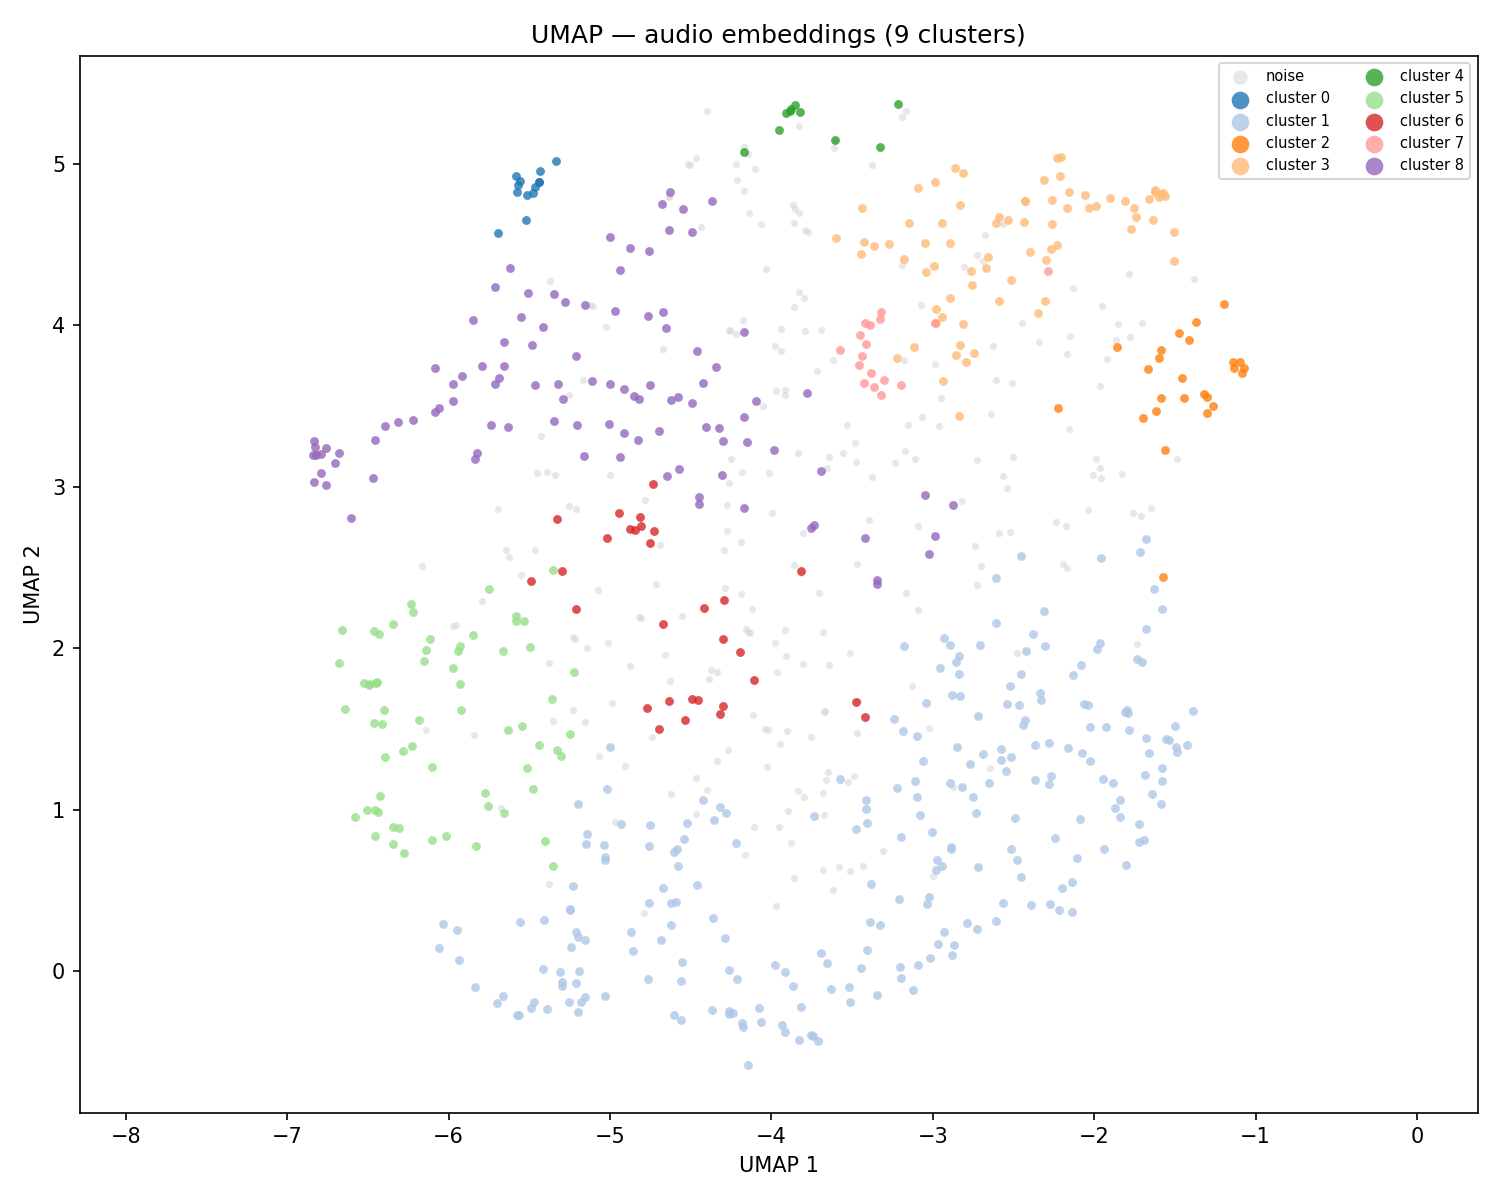
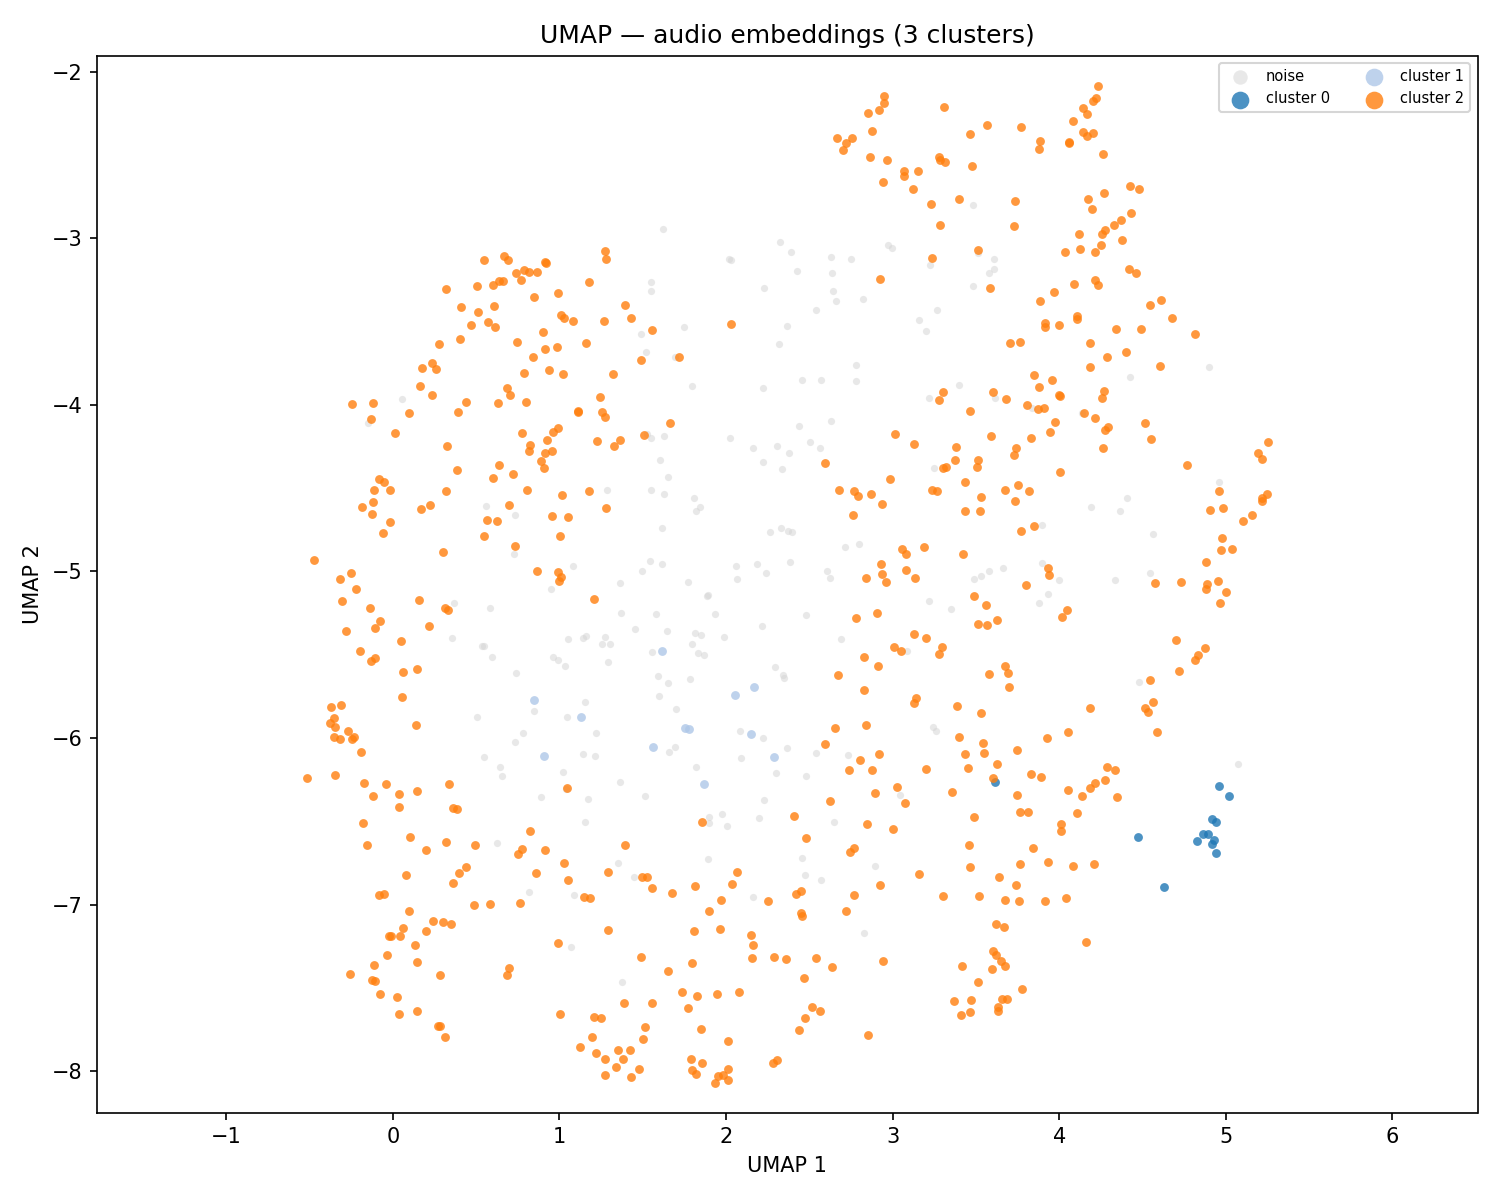
upd: clusters stats via db

diff --git a/generators/cluster_results_best.py b/generators/cluster_results_best.py
@@ -1,0 +1,163 @@
+#!/usr/bin/env python
+"""Show top-N cluster runs per embedding case, aligned with validate_clustering.
+
+Default sort matches main.py: plateau survivors first (drop <= threshold), then by
+DBCv descending — so rank 1 is the same run cluster_users() uses. Use --sort dbcv
+for a raw DBCV-only leaderboard (those rows may all be ok=N while a lower-DBCv run wins).
+"""
+from __future__ import annotations
+
+import argparse
+import os
+import sys
+
+sys.path.insert(0, os.path.dirname(os.path.dirname(__file__)))
+
+from sqlalchemy.orm import Session
+
+from modules.database import engine, ClusterRun
+
+
+CASES = ["video", "sandwich", "audio"]
+
+_HEADER = (
+    f"{'rk':>2}  {'id':>5}  {'dbcv':>7}  {'plat':>7}  {'drop':>6}  {'ok':>2}  {'sil':>7}"
+    f"  {'k':>3}  {'noise%':>6}"
+    f"  {'nc':>3}  {'nn':>3}  {'md':>5}  {'u1m':<8}"
+    f"  {'u2n':>3}  {'u2d':>5}  {'u2m':<8}"
+    f"  {'mcs':>4}  {'ms':>4}  {'sel':<4}  {'hdbm':<8}  {'*':>1}"
+)
+_SEP = "-" * len(_HEADER)
+
+
+def _fmt(val: float | None) -> str:
+    return f"{val:.4f}" if val is not None else "    —"
+
+
+def _fmt_ms(val: int | None) -> str:
+    if val is None:
+        return "   —"
+    return f"{val:>4}"
+
+
+def _pick_best(rows: list[ClusterRun], threshold: float) -> ClusterRun | None:
+    """Same survivor rule as modules.cluster_validation._select_best."""
+    if not rows:
+        return None
+    survivors = [r for r in rows if (r.dbcv - r.param_plateau_score) <= threshold]
+    if not survivors:
+        survivors = rows
+    return max(survivors, key=lambda r: r.dbcv)
+
+
+def _passes_plateau(r: ClusterRun, threshold: float) -> bool:
+    return (r.dbcv - r.param_plateau_score) <= threshold
+
+
+def _sort_rows(
+    rows: list[ClusterRun],
+    threshold: float,
+    sort: str,
+) -> list[ClusterRun]:
+    if sort == "dbcv":
+        rows.sort(key=lambda r: r.dbcv, reverse=True)
+        return rows
+    # validation: survivors first (same ordering as _select_best’s pool), then rest
+    rows.sort(
+        key=lambda r: (
+            0 if _passes_plateau(r, threshold) else 1,
+            -r.dbcv,
+        ),
+    )
+    return rows
+
+
+def show(
+    case: str,
+    num: int = 10,
+    *,
+    sort: str = "validation",
+) -> None:
+    threshold = float(os.environ.get("VALIDATION_PLATEAU_DROP_THRESHOLD", "0.05"))
+
+    with Session(engine) as session:
+        rows = (
+            session.query(ClusterRun)
+            .filter(
+                ClusterRun.embedding_case == case,
+                ClusterRun.in_current_grid == 1,
+                ClusterRun.disqualified == 0,
+                ClusterRun.dbcv.isnot(None),
+                ClusterRun.param_plateau_score.isnot(None),
+            )
+            .all()
+        )
+
+    best = _pick_best(rows, threshold)
+    _sort_rows(rows, threshold, sort)
+    rows = rows[:num]
+
+    print(f"\nTop {num} cluster runs — case={case} (current grid)\n")
+    print(f"plateau drop threshold (VALIDATION_PLATEAU_DROP_THRESHOLD) = {threshold:g}")
+    if best is not None:
+        print(
+            f"validation pick: id={best.id} dbcv={best.dbcv:.4f} "
+            f"plat={best.param_plateau_score:.4f} "
+            f"drop={best.dbcv - best.param_plateau_score:.4f}"
+        )
+    print()
+    print(_HEADER)
+    print(_SEP)
+    for rank, r in enumerate(rows, 1):
+        drop = r.dbcv - r.param_plateau_score
+        ok = "Y" if drop <= threshold else "N"
+        star = "*" if best is not None and r.id == best.id else " "
+        print(
+            f"{rank:>2}  {r.id:>5}  {_fmt(r.dbcv):>7}  {_fmt(r.param_plateau_score):>7}"
+            f"  {drop:>6.4f}  {ok:>2}  {_fmt(r.silhouette):>7}"
+            f"  {r.n_clusters:>3}  {r.noise_ratio:>6.1%}"
+            f"  {r.umap_n_components:>3}  {r.umap_n_neighbors:>3}  {r.umap_min_dist:>5.3f}"
+            f"  {r.umap_metric:<8}"
+            f"  {r.umap2d_n_neighbors:>3}  {r.umap2d_min_dist:>5.3f}  {r.umap2d_metric:<8}"
+            f"  {r.hdbscan_min_cluster_size:>4}  {_fmt_ms(r.hdbscan_min_samples)}"
+            f"  {r.hdbscan_cluster_selection_method:<4}  {r.hdbscan_metric:<8}  {star:>1}"
+        )
+    if not rows:
+        print("  (no eligible runs — need cluster_search + validate_clustering)")
+    print()
+
+
+def main() -> None:
+    parser = argparse.ArgumentParser(
+        description=(
+            "Show top cluster runs per embedding case from the DB, "
+            "matching validate_clustering filters and selection."
+        )
+    )
+    parser.add_argument(
+        "--case",
+        required=True,
+        choices=CASES,
+        help="Embedding case to inspect (video, sandwich, audio)",
+    )
+    parser.add_argument(
+        "--num",
+        type=int,
+        default=10,
+        help="Number of top runs to show (default: 10)",
+    )
+    parser.add_argument(
+        "--sort",
+        choices=("validation", "dbcv"),
+        default="validation",
+        help=(
+            "validation: plateau-stable runs first, then by DBCV (rank 1 = pipeline run). "
+            "dbcv: pure DBCV descending (may disagree with cluster_users)."
+        ),
+    )
+    args = parser.parse_args()
+    show(args.case, args.num, sort=args.sort)
+
+
+if __name__ == "__main__":
+    main()

diff --git a/modules/database.py b/modules/database.py
@@ -219,7 +219,7 @@ class ClusterRun(Base):
     silhouette = Column(Float, nullable=True)
     param_plateau_score = Column(Float, nullable=True)
     in_current_grid = Column(Integer, nullable=True)   # 1=current, 0=stale
-    dataset_fingerprint = Column(String, nullable=True) # SHA-256 of sorted user PKs
+    dataset_hash = Column(String, nullable=True) # SHA-256 of sorted user PKs
     validation_config_hash = Column(String, nullable=True)
     created_at = Column(DateTime(timezone=True), server_default=func.now(), nullable=False)
 
@@ -261,13 +261,22 @@ def _migrate_cluster_runs_table() -> None:
         "silhouette": "REAL",
         "param_plateau_score": "REAL",
         "in_current_grid": "INTEGER",
-        "dataset_fingerprint": "TEXT",
+        "dataset_hash": "TEXT",
         "validation_config_hash": "TEXT",
     }
     for col, col_type in new_cols.items():
         if col not in columns:
             with engine.begin() as conn:
                 conn.execute(text(f"ALTER TABLE cluster_runs ADD COLUMN {col} {col_type}"))
+
+    # Backfill renamed column for existing DBs that still have dataset_fingerprint.
+    if "dataset_hash" in {c["name"] for c in inspect(engine).get_columns("cluster_runs")} and "dataset_fingerprint" in columns:
+        with engine.begin() as conn:
+            conn.execute(text(
+                "UPDATE cluster_runs "
+                "SET dataset_hash = dataset_fingerprint "
+                "WHERE dataset_hash IS NULL AND dataset_fingerprint IS NOT NULL"
+            ))
 
 
 # legacy column drops run during init_db; no separate migrate script needed for these.
